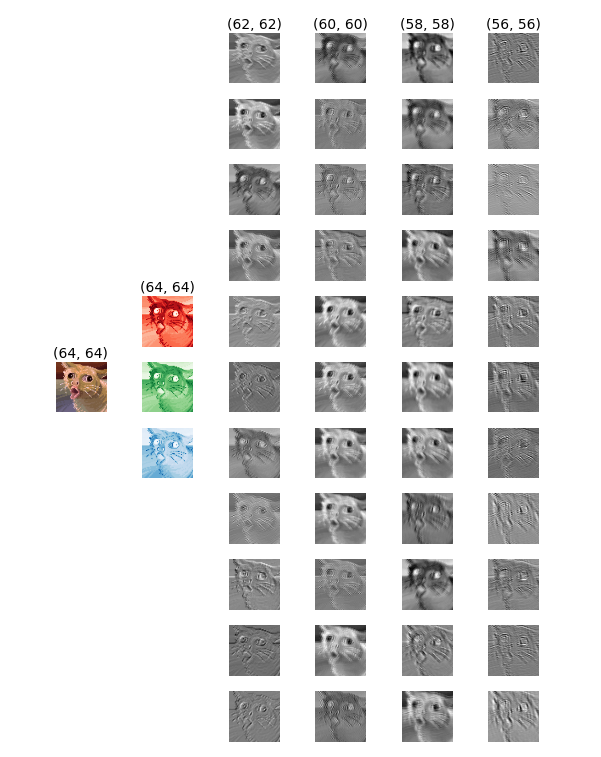
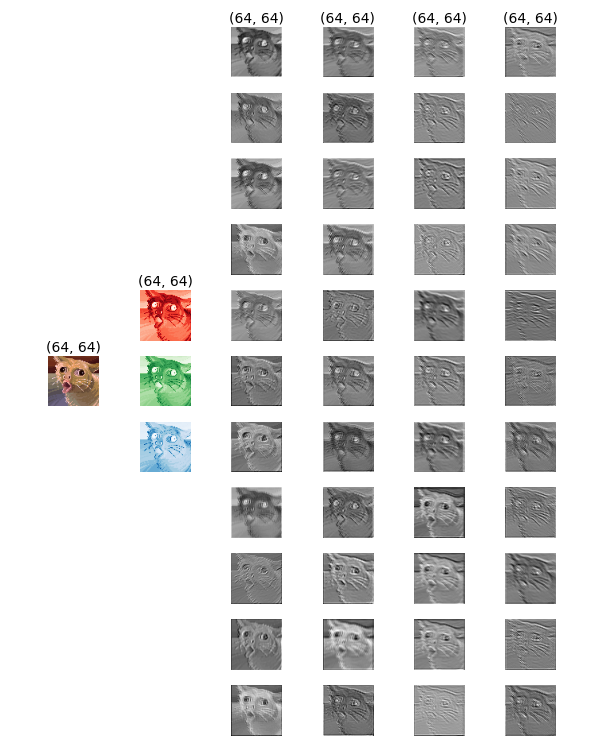
modify

diff --git a/README.md b/README.md
@@ -60,9 +60,11 @@ def conv2d(
 |__bias__|A set of 1D vectors of size __output_channels__ representing the bias terms. Each intermidiate outputs of each covolution operation on each `channels` of the input are summed together and added a __bias__ to introduce an offset or shift in the __output__ (__feature maps__).|
 |__ouput__| Also called __feature maps__ is the result obtained after applying convolutional operations to the input data. Each feature map represents a specific learned feature or pattern detected by the convolutional layer.|`out_channels`|
 ### Output Sizing Calculation
-`output_height = (input_height - kernel_size + 2 * padding) / stride + 1`
-
-`output_width = (input_width - kernel_size + 2 * padding) / stride + 1`
+```py
+#Output height and width are calculated 
+output_height = (input_height - kernel_size + 2 * padding) / stride + 1
+output_width = (input_width - kernel_size + 2 * padding) / stride + 1
+```
 
 ### Examples of an intermediate output
 Input layer is the Red of the `input`. Arguments `kernel_size` = 3, `stride` = 1, `padding` = 0
@@ -71,7 +73,7 @@ Input layer is the Red of the `input`. Arguments `kernel_size` = 3, `stride` = 1
 
 ## Results of 2D Convolution 
 
-|3 `conv2d` layers|5 `conv2d` layers|
+|2 `conv2d` layers|4 `conv2d` layers|
 |:---:|:---:|
 |`kernel_size` = 3, `stride` = 1, `padding` = 0|`kernel_size` = 3, `stride` = 1, `padding` = 1|
 |![low](./assets/conv2d_low.png "low")|![high](./assets/conv2d_high.png "high")|
